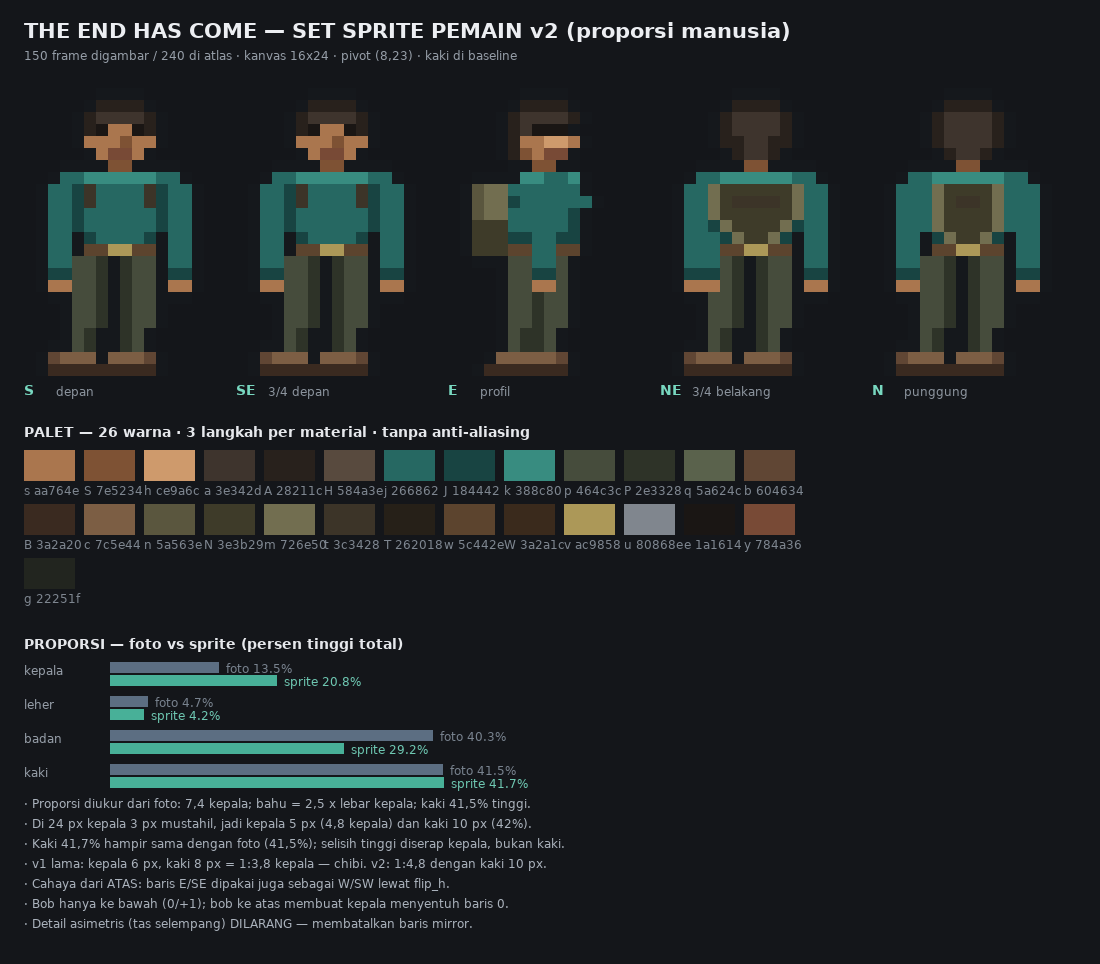
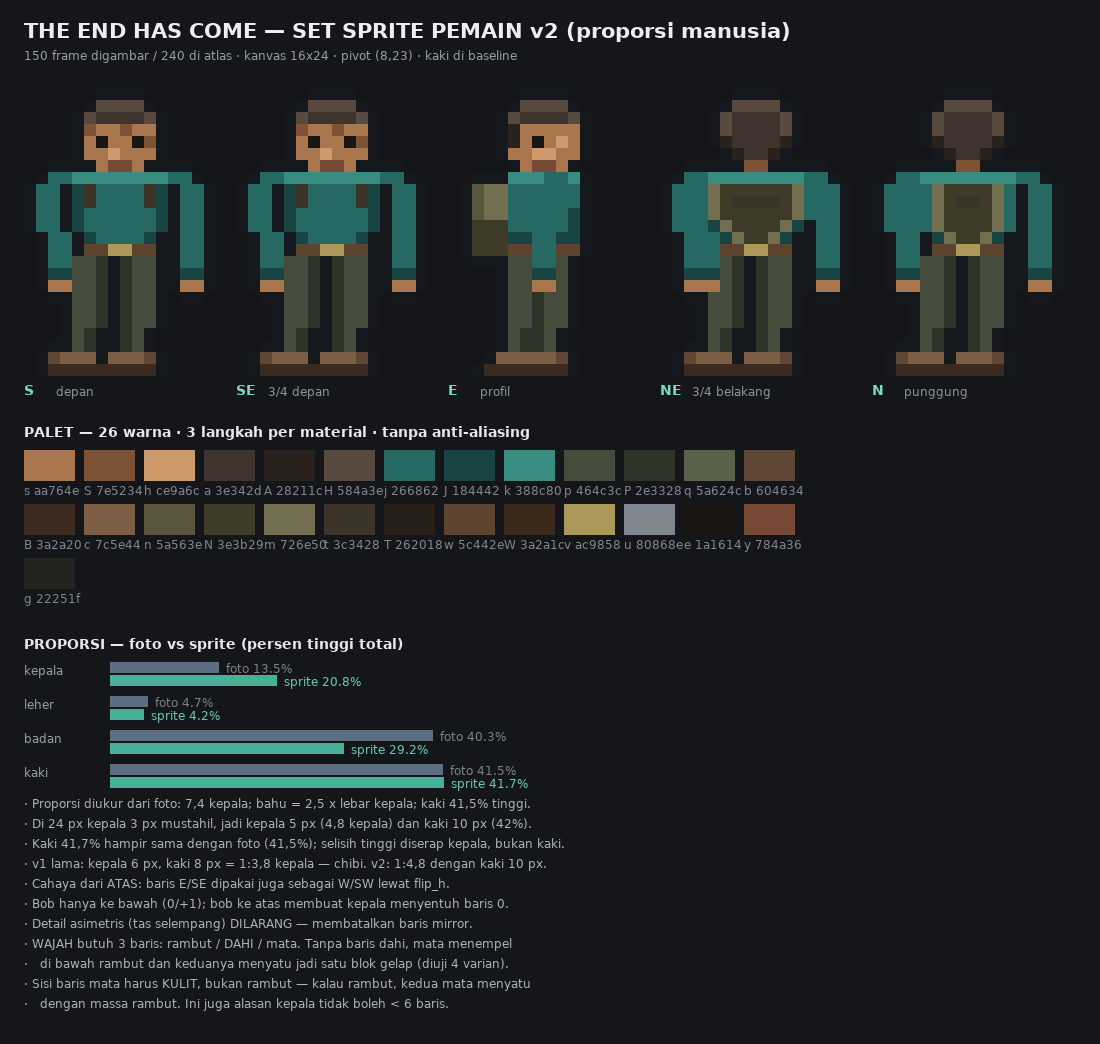
Wajah: aturan 3 baris (rambut/dahi/mata), sisi kulit, bahu menyambung lengan

diff --git a/tools/make_player_sprites.py b/tools/make_player_sprites.py
@@ -74,30 +74,34 @@ def rgba(c):
 
 BASE = {}
 
+# Kepala 6 baris (1-6). Baris 3 = DAHI, wajib ada: tanpa dahi, mata menempel
+# langsung di bawah rambut dan keduanya menyatu jadi satu blok gelap.
+# Sisi mata memakai kulit (bukan rambut) supaya mata tidak menyatu dengan rambut.
+
 BASE["s"] = [
-    "......AAAA......",  # 1  ubun-ubun
-    ".....AaaaaA.....",  # 2  rambut
-    ".....AesseA.....",  # 3  mata x6 & x9
-    ".....sssSss.....",  # 4  hidung
-    "......syys......",  # 5  mulut, rahang menyempit
-    ".......SS.......",  # 6  leher
-    "...kkkkkkkkkk...",  # 7  bahu + deltoid (10 px)
-    "....JtjjjjtJ....",  # 8  dada
+    "......HHHH......",  # 1  atap rambut
+    ".....HaaaaH.....",  # 2  rambut
+    ".....SssSss.....",  # 3  dahi
+    ".....sesseS.....",  # 4  mata x6 & x9
+    ".....sshsss.....",  # 5  hidung terang 2 px
+    "......syys......",  # 6  mulut + dagu
+    "..kkkkkkkkkkkk..",  # 7  bahu menyambung ke lengan (bukan kaus tanpa lengan)
+    "....JtjjjjtJ....",  # 8  dada + tali tas
     "....JtjjjjtJ....",  # 9
-    "....JjjjjjjJ....",  # 10 pinggang menyempit sedikit
+    "....JjjjjjjJ....",  # 10 pinggang
     "....JjjjjjjJ....",  # 11
-    ".....JjjjjJ.....",  # 12 pinggang paling sempit
-    ".....wwvvww.....",  # 13 ikat pinggang
+    ".....JjjjjJ.....",  # 12 pinggang menyempit
+    ".....wwvvww.....",  # 13 ikat pinggang + gesper
 ]
 
 BASE["se"] = [
-    "......AAAA......",
-    ".....AaaaaA.....",
-    ".....AesseA.....",
-    ".....sssSss.....",
+    "......HHHH......",
+    ".....HaaaaH.....",
+    ".....SssSss.....",
+    ".....sesseS.....",
+    ".....sshsss.....",
     "......syys......",
-    ".......SS.......",
-    "...kkkkkkkkkk...",
+    "..kkkkkkkkkkkk..",
     "....JtjjjjtJ....",
     "....JtjjjjtJ....",
     "....JjjjjjjJ....",
@@ -106,16 +110,17 @@ BASE["se"] = [
     ".....wwvvww.....",
 ]
 
+# Profil: mata tunggal di x7, hidung menonjol ke kanan di x9-x10.
 BASE["e"] = [
-    "......AAAA......",
-    ".....AaaaaA.....",
-    ".....Aaeee......",
-    ".....Asshhs.....",
-    ".....ASsyy......",
-    ".......SS.......",
-    "......kkkkk.....",
+    "......HHHH......",
+    ".....HaaaaH.....",
+    ".....Asssss.....",
+    ".....Aseshs.....",
+    ".....sshhss.....",
+    "......syys......",
+    ".....kkkkkk.....",
     "..nmmjjjjjj.....",
-    "..nmmJjjjjjj....",
+    "..nmmjjjjjj.....",
     "..nmmjjjjjJ.....",
     "..NNNjjjjjJ.....",
     "..NNNJJjjJJ.....",
@@ -123,10 +128,10 @@ BASE["e"] = [
 ]
 
 BASE["ne"] = [
-    "......AAAA......",
+    "......HHHH......",
+    ".....HaaaaH.....",
+    ".....HaaaaH.....",
     ".....AaaaaA.....",
-    ".....AaaaaA.....",
-    ".....AAaaAA.....",
     "......AaaA......",
     ".......SS.......",
     "...kkkkkkkkkk...",
@@ -139,13 +144,13 @@ BASE["ne"] = [
 ]
 
 BASE["n"] = [
-    "......AAAA......",
-    ".....AaaaaA.....",
-    ".....AaaaaA.....",
+    "......HHHH......",
+    ".....HaaaaH.....",
+    ".....HaaaaH.....",
     ".....AaaaaA.....",
     "......AaaA......",
     ".......SS.......",
-    "...kkkkkkkkkk...",
+    "..kkkkkkkkkkkk..",
     "....jmNNNNmj....",
     "....jmNttNmj....",
     "....jmNNNNmj....",
@@ -162,9 +167,9 @@ PRONE = {
         "................", "................", "................", "................",
         "................", "................", "................", "................",
         "................", "................",
-        "....AAA.........",
-        "...AaaaaA.......",
-        "....AasssAjjjjj.",
+        "....HHHH........",
+        "...HaaaaH.......",
+        "....HasssHjjjjj.",
         "...jjjjjjjjjpp..",
         "..jjjjjjjjjjpp..",
     ],
@@ -174,9 +179,9 @@ PRONE = {
         "................", "................", "................", "................",
         "................", "................", "................", "................",
         "................", "................",
-        "....AAA.........",
-        "...AaaaaA.......",
-        "....AaaaAjjjjjj.",
+        "....HHHH........",
+        "...HaaaaH.......",
+        "....HaaaaHjjjjj.",
         "...jjjjjjjjjpp..",
         "..NNNNNNNNNNpp..",
     ],
@@ -188,8 +193,8 @@ TUCK = [
     "................", "................", "................", "................",
     "................", "................", "................", "................",
     "................",
-    "......AAA.......",
-    ".....AaaaA......",
+    "......HHHH......",
+    ".....HaaaaH.....",
     "....AjjjjjA.....",
     "...jjjjjjjjp....",
     "...jjjjjjjjpp...",
@@ -199,7 +204,6 @@ TUCK = [
     "................",
     "................",
 ]
-
 
 # ------------------------------------------------------------- komposisi ----
 
@@ -407,12 +411,12 @@ def build(d, anim, f):
         arm(mat, (7, 7 + p["bob"] + p["crouch"]), p["armR"][0], p["armR"][1],
             ext=p["ext"], inner=-1)
     elif d == "n":
-        arm(mat, (2, 7 + p["bob"] + p["crouch"]), p["armL"][0], p["armL"][1], inner=1)
-        arm(mat, (12, 7 + p["bob"] + p["crouch"]), p["armR"][0], p["armR"][1],
+        arm(mat, (1, 7 + p["bob"] + p["crouch"]), p["armL"][0], p["armL"][1], inner=1)
+        arm(mat, (13, 7 + p["bob"] + p["crouch"]), p["armR"][0], p["armR"][1],
             ext=p["ext"], inner=-1)
     else:
-        arm(mat, (2, 7 + p["bob"] + p["crouch"]), p["armL"][0], p["armL"][1], inner=1)
-        arm(mat, (12, 7 + p["bob"] + p["crouch"]), p["armR"][0], p["armR"][1],
+        arm(mat, (1, 7 + p["bob"] + p["crouch"]), p["armL"][0], p["armL"][1], inner=1)
+        arm(mat, (13, 7 + p["bob"] + p["crouch"]), p["armR"][0], p["armR"][1],
             ext=p["ext"], inner=-1)
 
     return render(shade(mat))
@@ -549,6 +553,10 @@ def make_character_sheet(root, atlas):
         "Cahaya dari ATAS: baris E/SE dipakai juga sebagai W/SW lewat flip_h.",
         "Bob hanya ke bawah (0/+1); bob ke atas membuat kepala menyentuh baris 0.",
         "Detail asimetris (tas selempang) DILARANG — membatalkan baris mirror.",
+        "WAJAH butuh 3 baris: rambut / DAHI / mata. Tanpa baris dahi, mata menempel",
+        "  di bawah rambut dan keduanya menyatu jadi satu blok gelap (diuji 4 varian).",
+        "Sisi baris mata harus KULIT, bukan rambut — kalau rambut, kedua mata menyatu",
+        "  dengan massa rambut. Ini juga alasan kepala tidak boleh < 6 baris.",
     ]
     pw = 40 + 5 * (gw + 20)
     y_pal = 92 + gh + 44

diff --git a/GDD.md b/GDD.md
@@ -1,6 +1,6 @@
 # The End Has Come
 
-## Game Design Document v3.12 — Canonical
+## Game Design Document v3.13 — Canonical
 
 ### Survival Open World · Shelter · Singleplayer · Godot 4.7.2
 
@@ -52,6 +52,7 @@
 | 30 | **Target engine 4.7.2:** features bump, `scale_mode=integer`, pixel snap yang sebelumnya hilang | §17, §21B, `game/project.godot` |
 | 31 | **Set sprite pemain v1: 150 frame digambar, atlas 480×120, dipakai engine** | §17.3B, `docs/art/player-character-sheet.png` |
 | 32 | **Sprite pemain v2: proporsi diukur dari foto (kaki 42%, 1:4,8 kepala) + koreksi shadow 32×14 → 14×7** | §17.3B, §17.12, `docs/art/ingame-scale-check.png` |
+| 33 | **Wajah: aturan 3 baris (rambut/dahi/mata) + sisi kulit + bahu menyambung lengan**, diuji 6 varian | §17.3B |
 
 ### 0.3 Yang sengaja dipertahankan dari v3.1
 
@@ -1260,6 +1261,22 @@ Permintaan "semirip manusia" tidak bisa dijawab dengan perasaan, jadi diukur dar
 **Kepala 3 px tidak mungkin** — tidak ada ruang untuk dua mata. Jadi satu-satunya penyimpangan yang boleh adalah kepala: **5 px**, yang menyerap seluruh selisih (20,8% vs 13,5%). Konsekuensinya **kaki tetap 10 px = 41,7%**, praktis sama dengan manusia asli.
 
 Versi sebelumnya (v1) memakai kepala 6 + kaki 8 = **1:3,8 kepala** — itu proporsi chibi, dan itulah sebabnya sprite terlihat "kurang manusia" meski shadingnya benar. v2 = **1:4,8** dengan kaki 42%.
+
+#### Aturan wajah di 16×24 (hasil percobaan, bukan selera)
+
+Wajah adalah bagian yang paling cepat gagal di kanvas 16×24. Diuji **6 varian** dan diperiksa pada zoom 14× *dan* skala main 4× (karakter 24 px di layar 320×180, sesuai ukuran sebenarnya dilihat pemain):
+
+| Aturan | Kenapa | Kalau dilanggar |
+|---|---|---|
+| Minimal **3 baris**: rambut / **dahi** / mata | Dahi adalah pemisah antara massa rambut gelap dan mata gelap | Mata menempel di bawah rambut → keduanya menyatu jadi satu blok hitam; wajah hilang, kepala terbaca sebagai helm |
+| Sisi baris mata = **kulit**, bukan rambut | Mata butuh latar terang untuk terbaca | Kedua mata menyatu dengan rambut di kiri-kanan → wajah terbaca sebagai topeng |
+| Hidung **2 px terang** di bawah mata | Memberi tonjolan tengah wajah | Wajah rata, tanpa kedalaman |
+| Mulut **2 px** `y` (bukan 1 px) | 1 px tidak terbaca, hanya menambah kotoran | Ekspresi hilang |
+| Kepala **tidak boleh < 6 baris** | 5 baris = rambut+dahi+mata+mulut tanpa dagu | Dagu menempel di leher, wajah terasa terpotong |
+
+**Konsekuensi yang harus diterima:** wajah yang terbaca menuntut kepala **6 baris (5 px)**, sehingga rasio kepala menjadi **1:4,8**, bukan 1:7,4 seperti manusia asli. Ini bukan kemalasan — pada 1:7,4 kepala hanya 3 px dan **tidak ada satu pun** dari 6 varian yang berhasil. Pilihan sebenarnya adalah: proporsi anatomis dengan wajah kosong, atau proporsi 1:4,8 dengan wajah yang terbaca. Di game bertahan hidup, wajah yang terbaca lebih penting.
+
+**Aturan lengan (ditemukan saat koreksi yang sama):** baris bahu **harus menyambung** ke lengan (14 px penuh). Kalau lengan hanya ditempel 1 px di luar badan tanpa baris bahu, hasilnya terbaca sebagai **kaus tanpa lengan**, bukan jaket.
 
 **Hasil uji keterbacaan.** Dua bagian: yang bisa diperiksa mesin (dijalankan otomatis setiap generate) dan yang harus dinilai mata.
 

diff --git a/docs/art/README.md b/docs/art/README.md
@@ -32,6 +32,8 @@ Pemain sudah punya set lengkap: **150 frame digambar** (30 frame × 5 arah), dig
 | Pemisah bagian | **selout** 1 px (nada gelap di tepi dalam) | Tanpa ini lengan menyatu dengan badan jadi satu balok. |
 | Simetri | wajib | Detail asimetris membatalkan baris mirror (§17.3). |
 | Palet | 26 warna, 3 langkah per material | Batas §17.1: 32 global, tanpa anti-aliasing. |
+| **Wajah** | 3 baris wajib: rambut / **dahi** / mata; sisi baris mata = kulit | Tanpa baris dahi, mata menempel di rambut dan menyatu jadi blok gelap. Diuji 6 varian, diperiksa di zoom 14× dan skala main 4×. |
+| **Bahu** | baris bahu 14 px menyambung ke lengan | Lengan yang hanya ditempel di luar badan terbaca sebagai kaus tanpa lengan. |
 | **Proporsi** | kaki **10 px (42%)**, kepala **5 px** = 1:4,8 kepala | Diukur dari foto model: 7,4 kepala, kaki 41,5%. Kepala dipaksa 5 px karena 3 px mustahil diberi wajah; seluruh selisih diserap kepala, bukan kaki. |
 | **Shadow** | ellipse **14×7**, offset **(0,−1)**, alpha 45% | 32×14 (nilai lama) = selebar 2× karakter dan terbaca sebagai genangan. Bukti: `ingame-scale-check.png`. |
 
